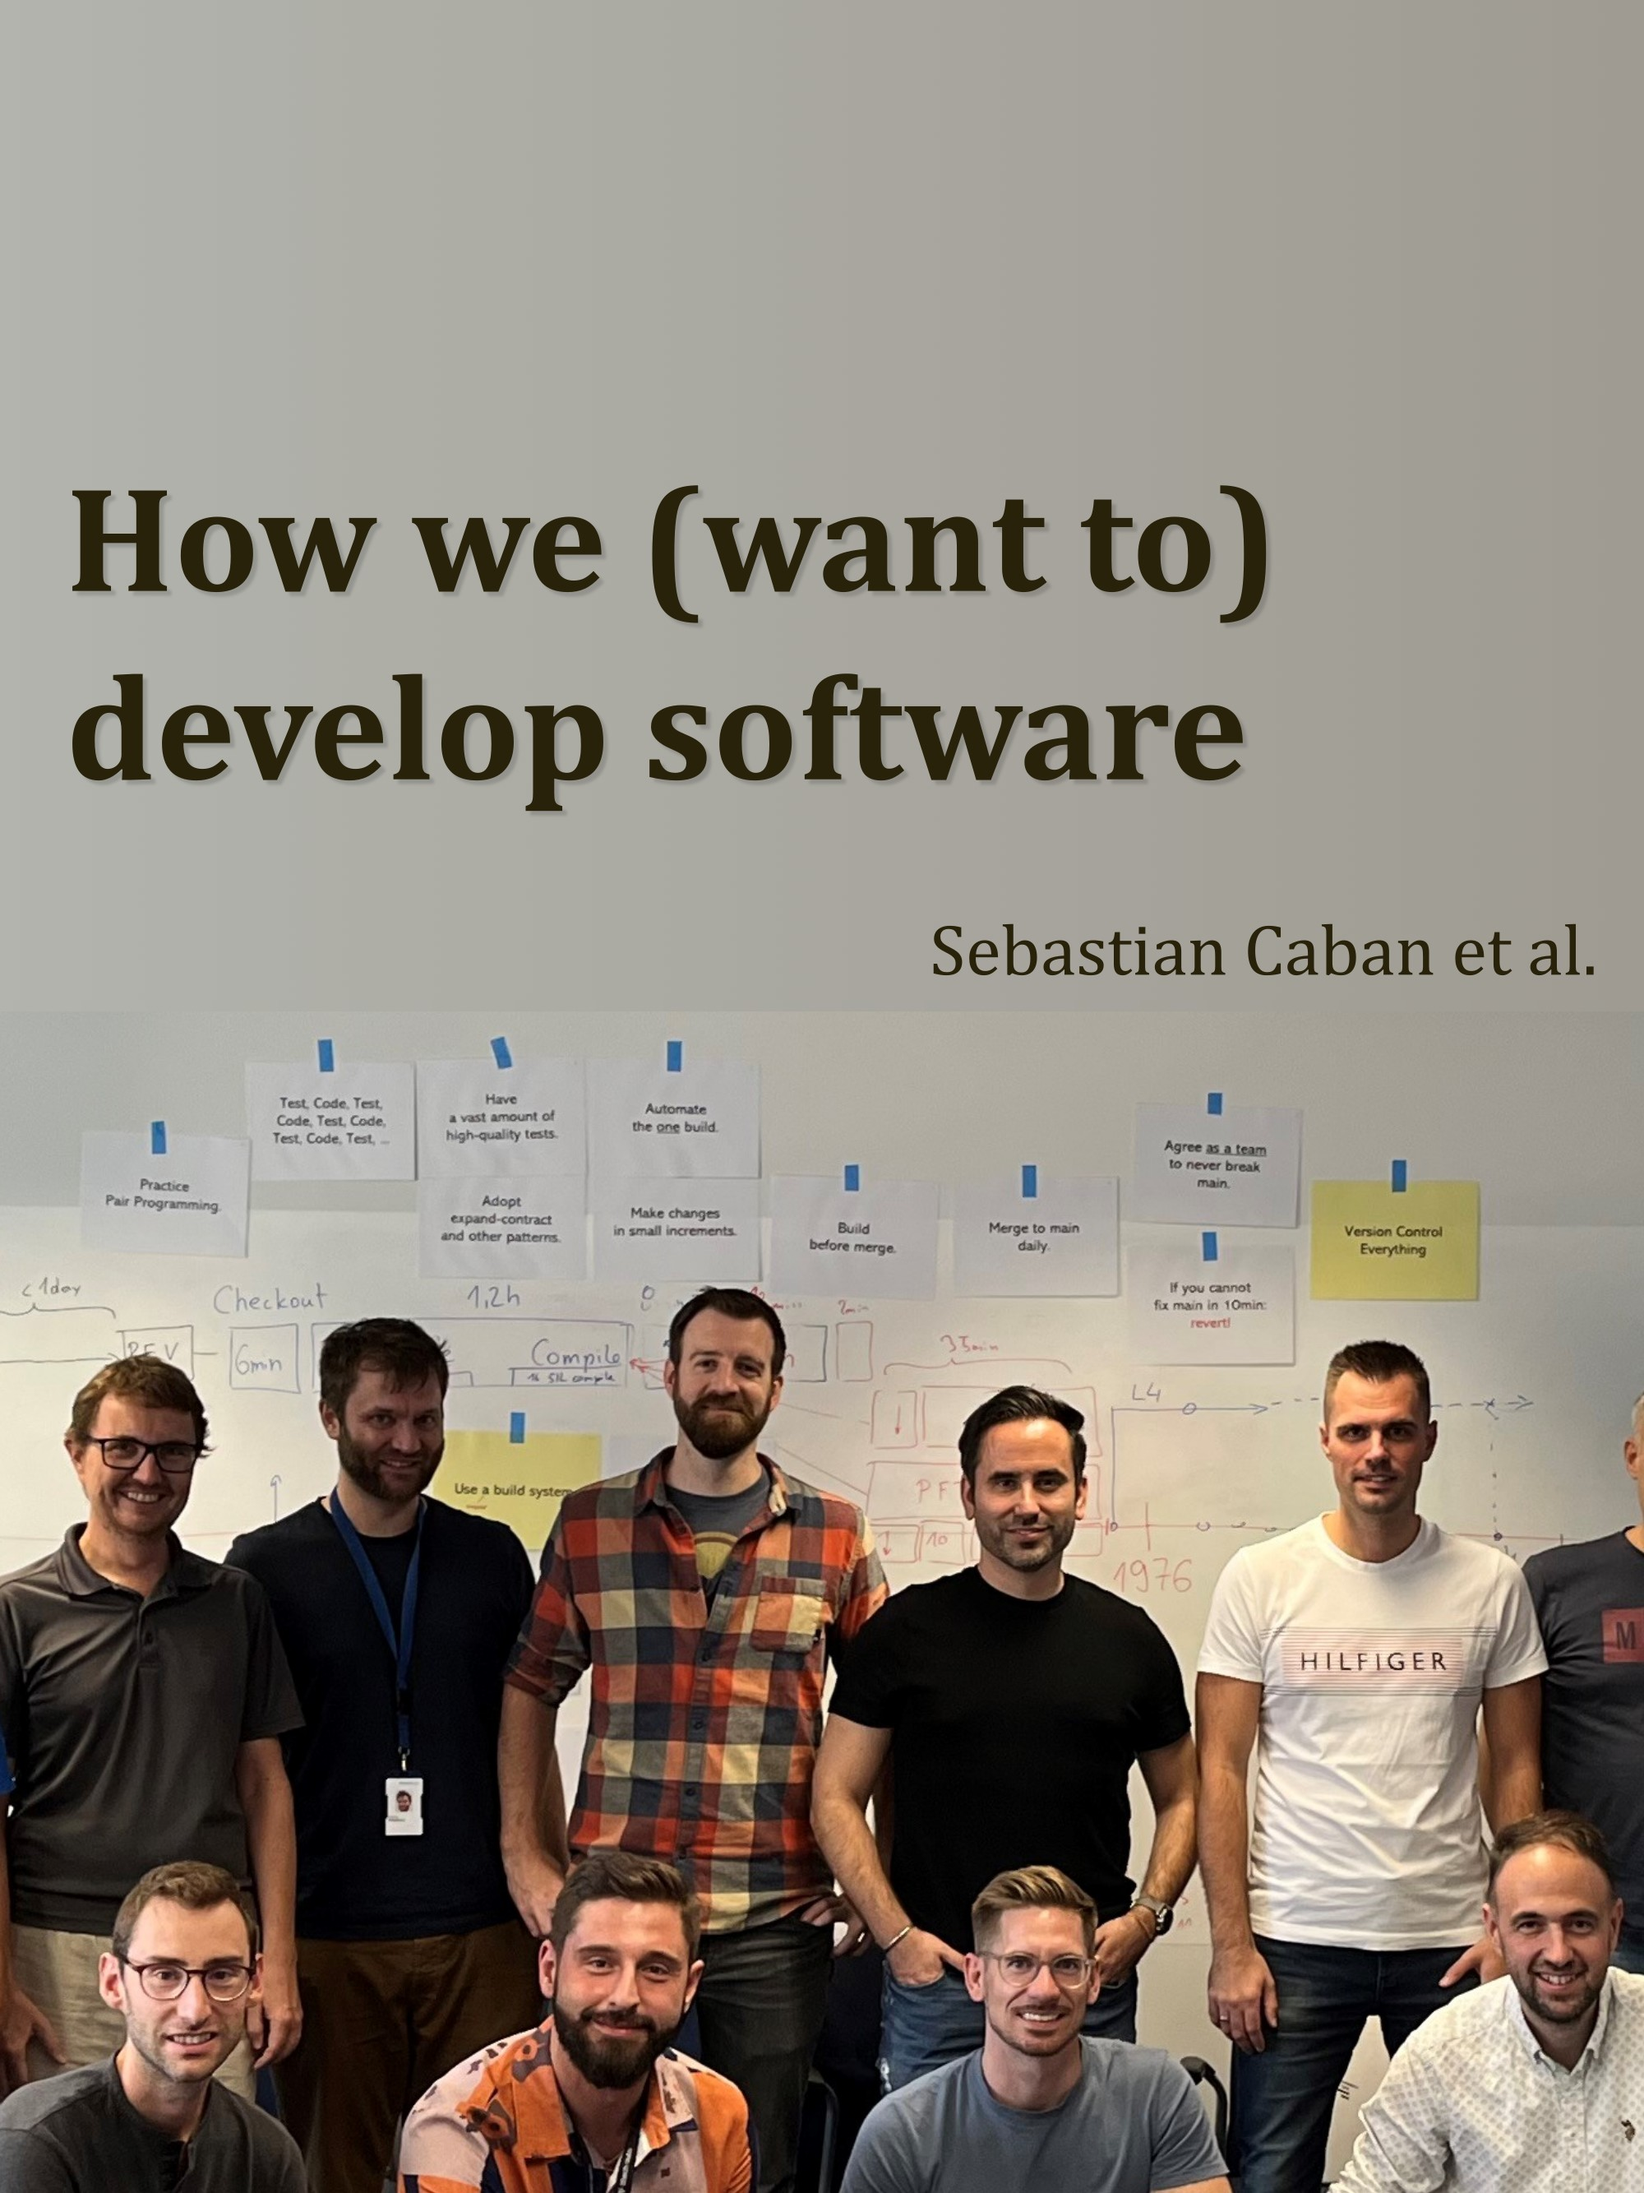
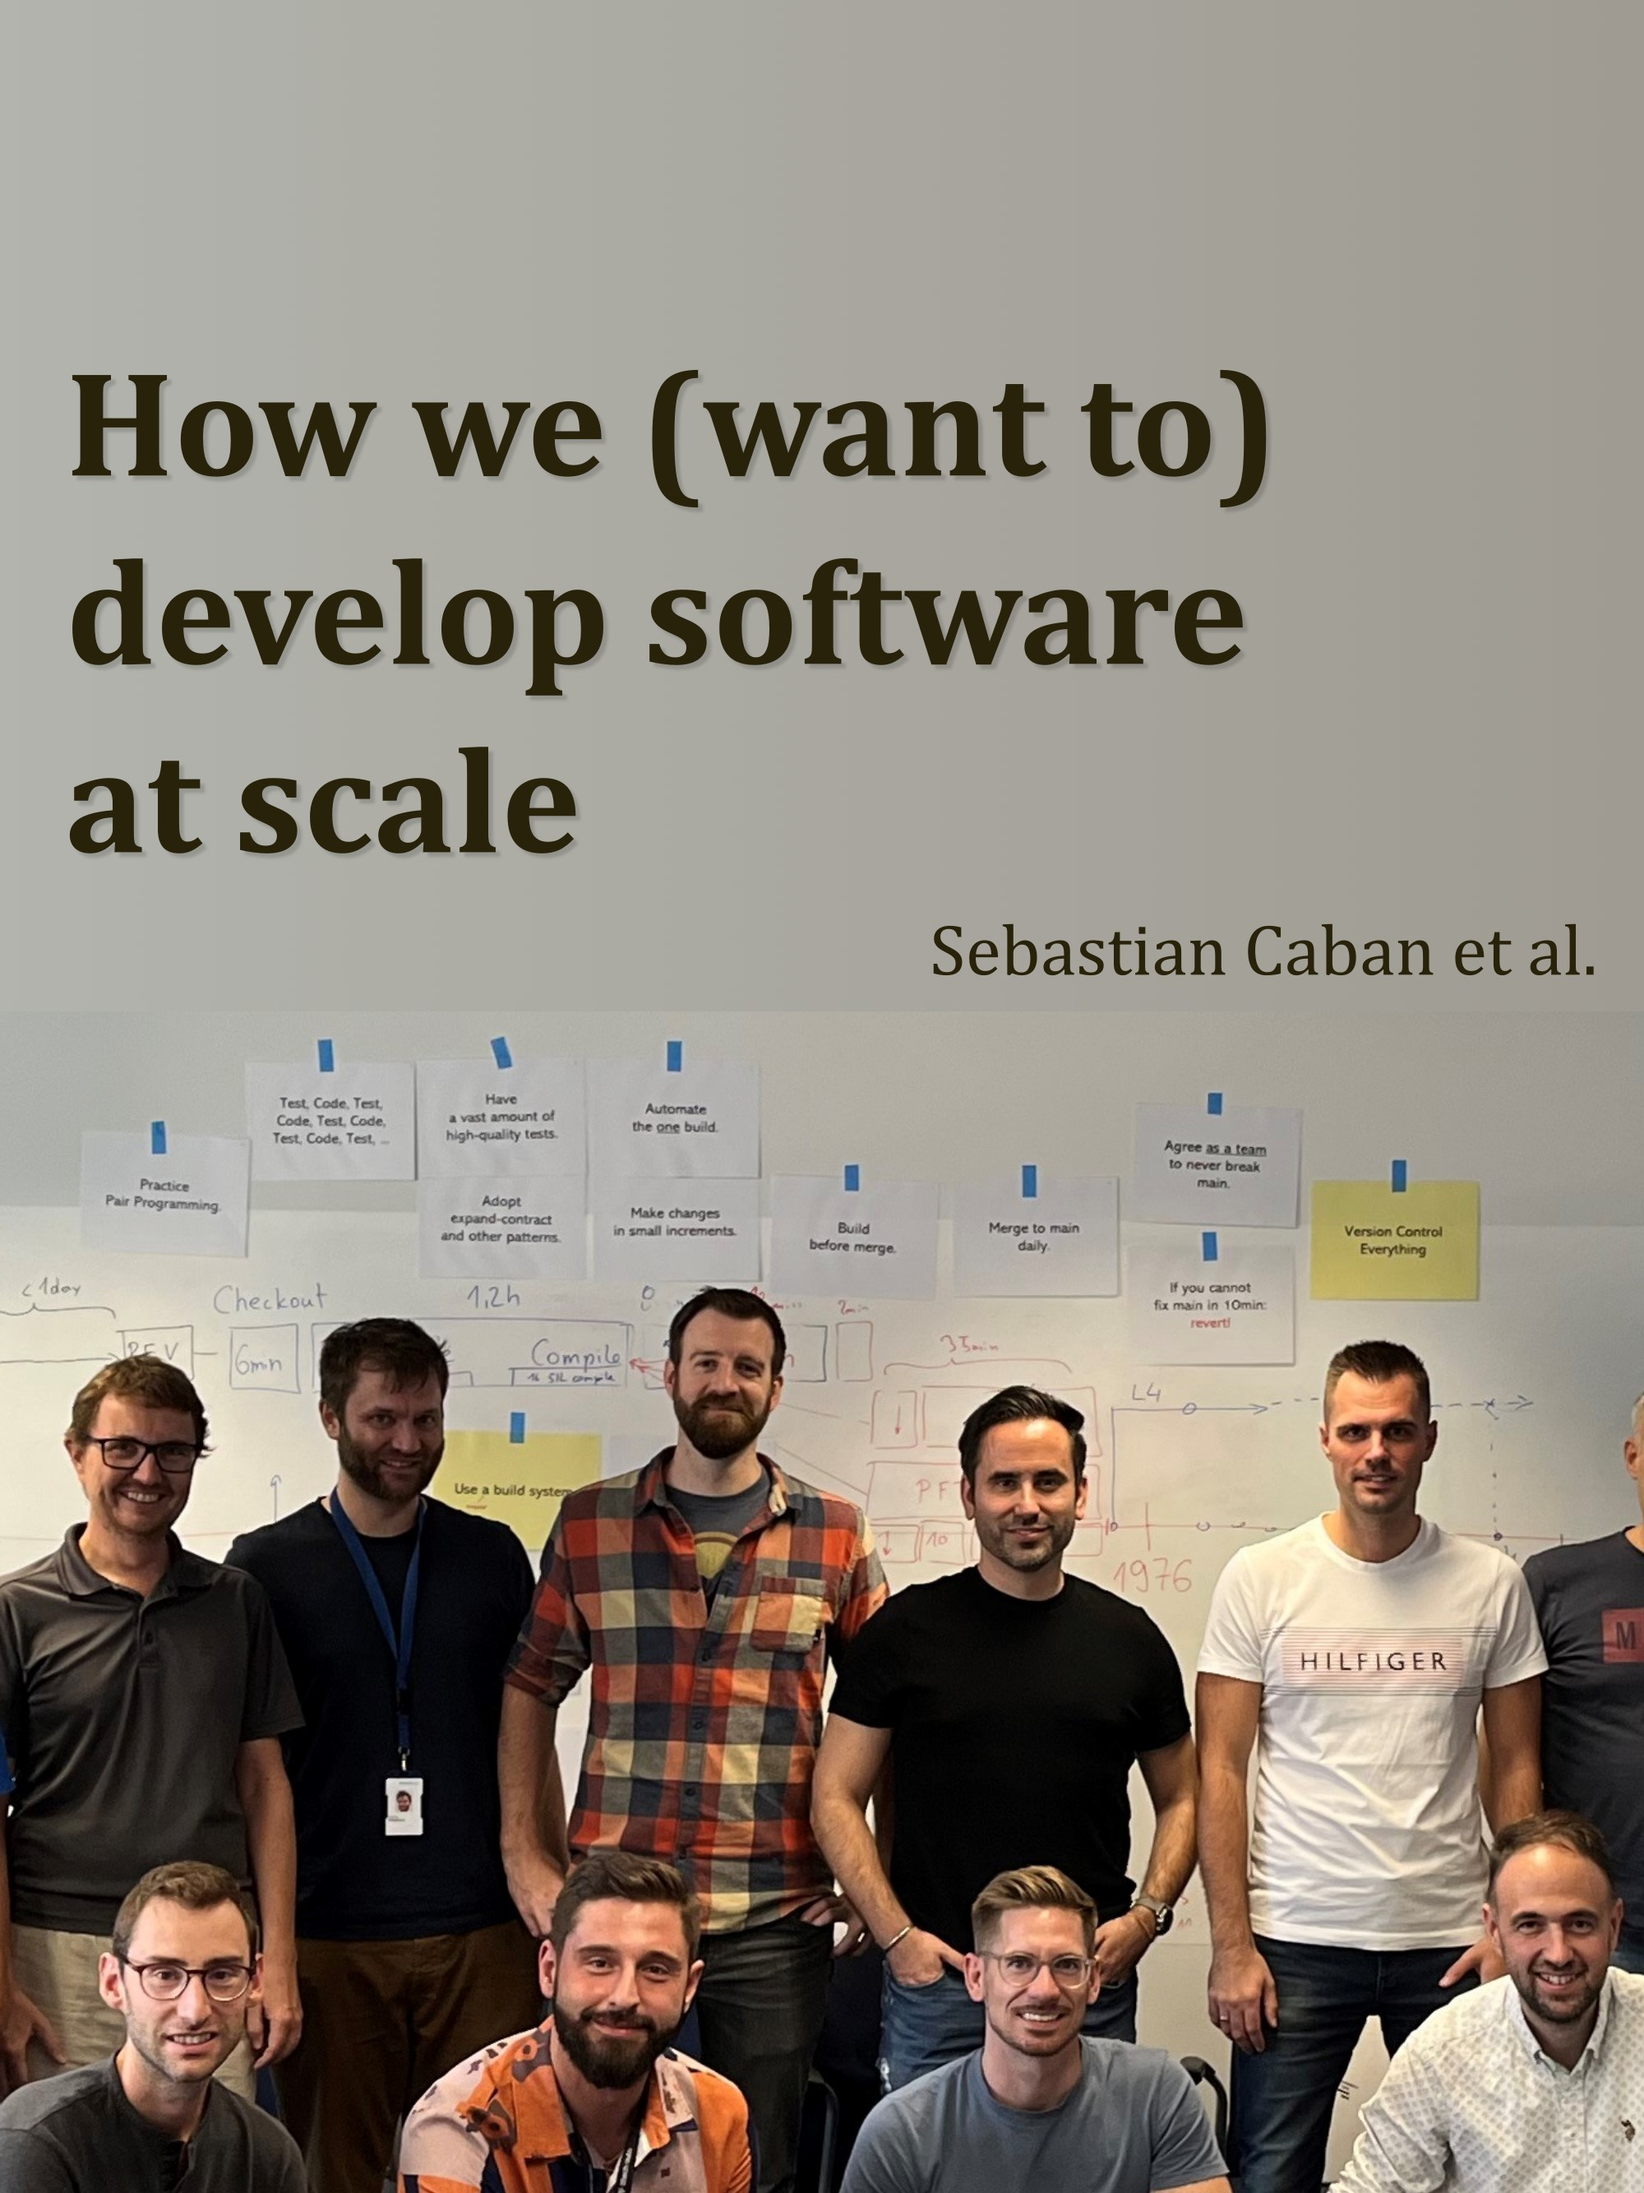
rename

Changed region(s): [[0.031, 0.1556, 0.775, 0.4046]]

diff --git a/doc/source/conf.py b/doc/source/conf.py
@@ -7,7 +7,7 @@ from operator import truediv
 # -- Project information -----------------------------------------------------
 # https://www.sphinx-doc.org/en/master/usage/configuration.html#project-information
 
-project = 'How we (want to) develop software'
+project = 'How we (want to) develop software at scale'
 author = 'Sebastian Caban'
 release = '1'
 version = '1.1'
@@ -37,7 +37,7 @@ suppress_warnings = ['epub.unknown_project_files']
 # EPUB options
 epub_theme = 'epub'
 epub_theme_options = {"relbar1" : True, "footer": True}
-epub_title = 'How we (want to) develop software'
+epub_title = 'How we (want to) develop software at scale'
 epub_copyright = 'TTTech Auto'
 epub_description = 'This is the high level guideline we (want to) follow to develop software continuously at the head of a single repository.'
 epub_cover = ('_static/cover.jpg', '')
@@ -48,8 +48,8 @@ epub_show_urls = 'no'
 
 html_theme = "furo"
 
-html_title = "SW at scale"
-html_short_title = "How we (want to) develop software"
+html_title = "SW at Scale"
+html_short_title = "How we (want to) develop software at scale"
 html_static_path = ['_static']
 
 html_last_updated_fmt = '%B %d, %Y'
